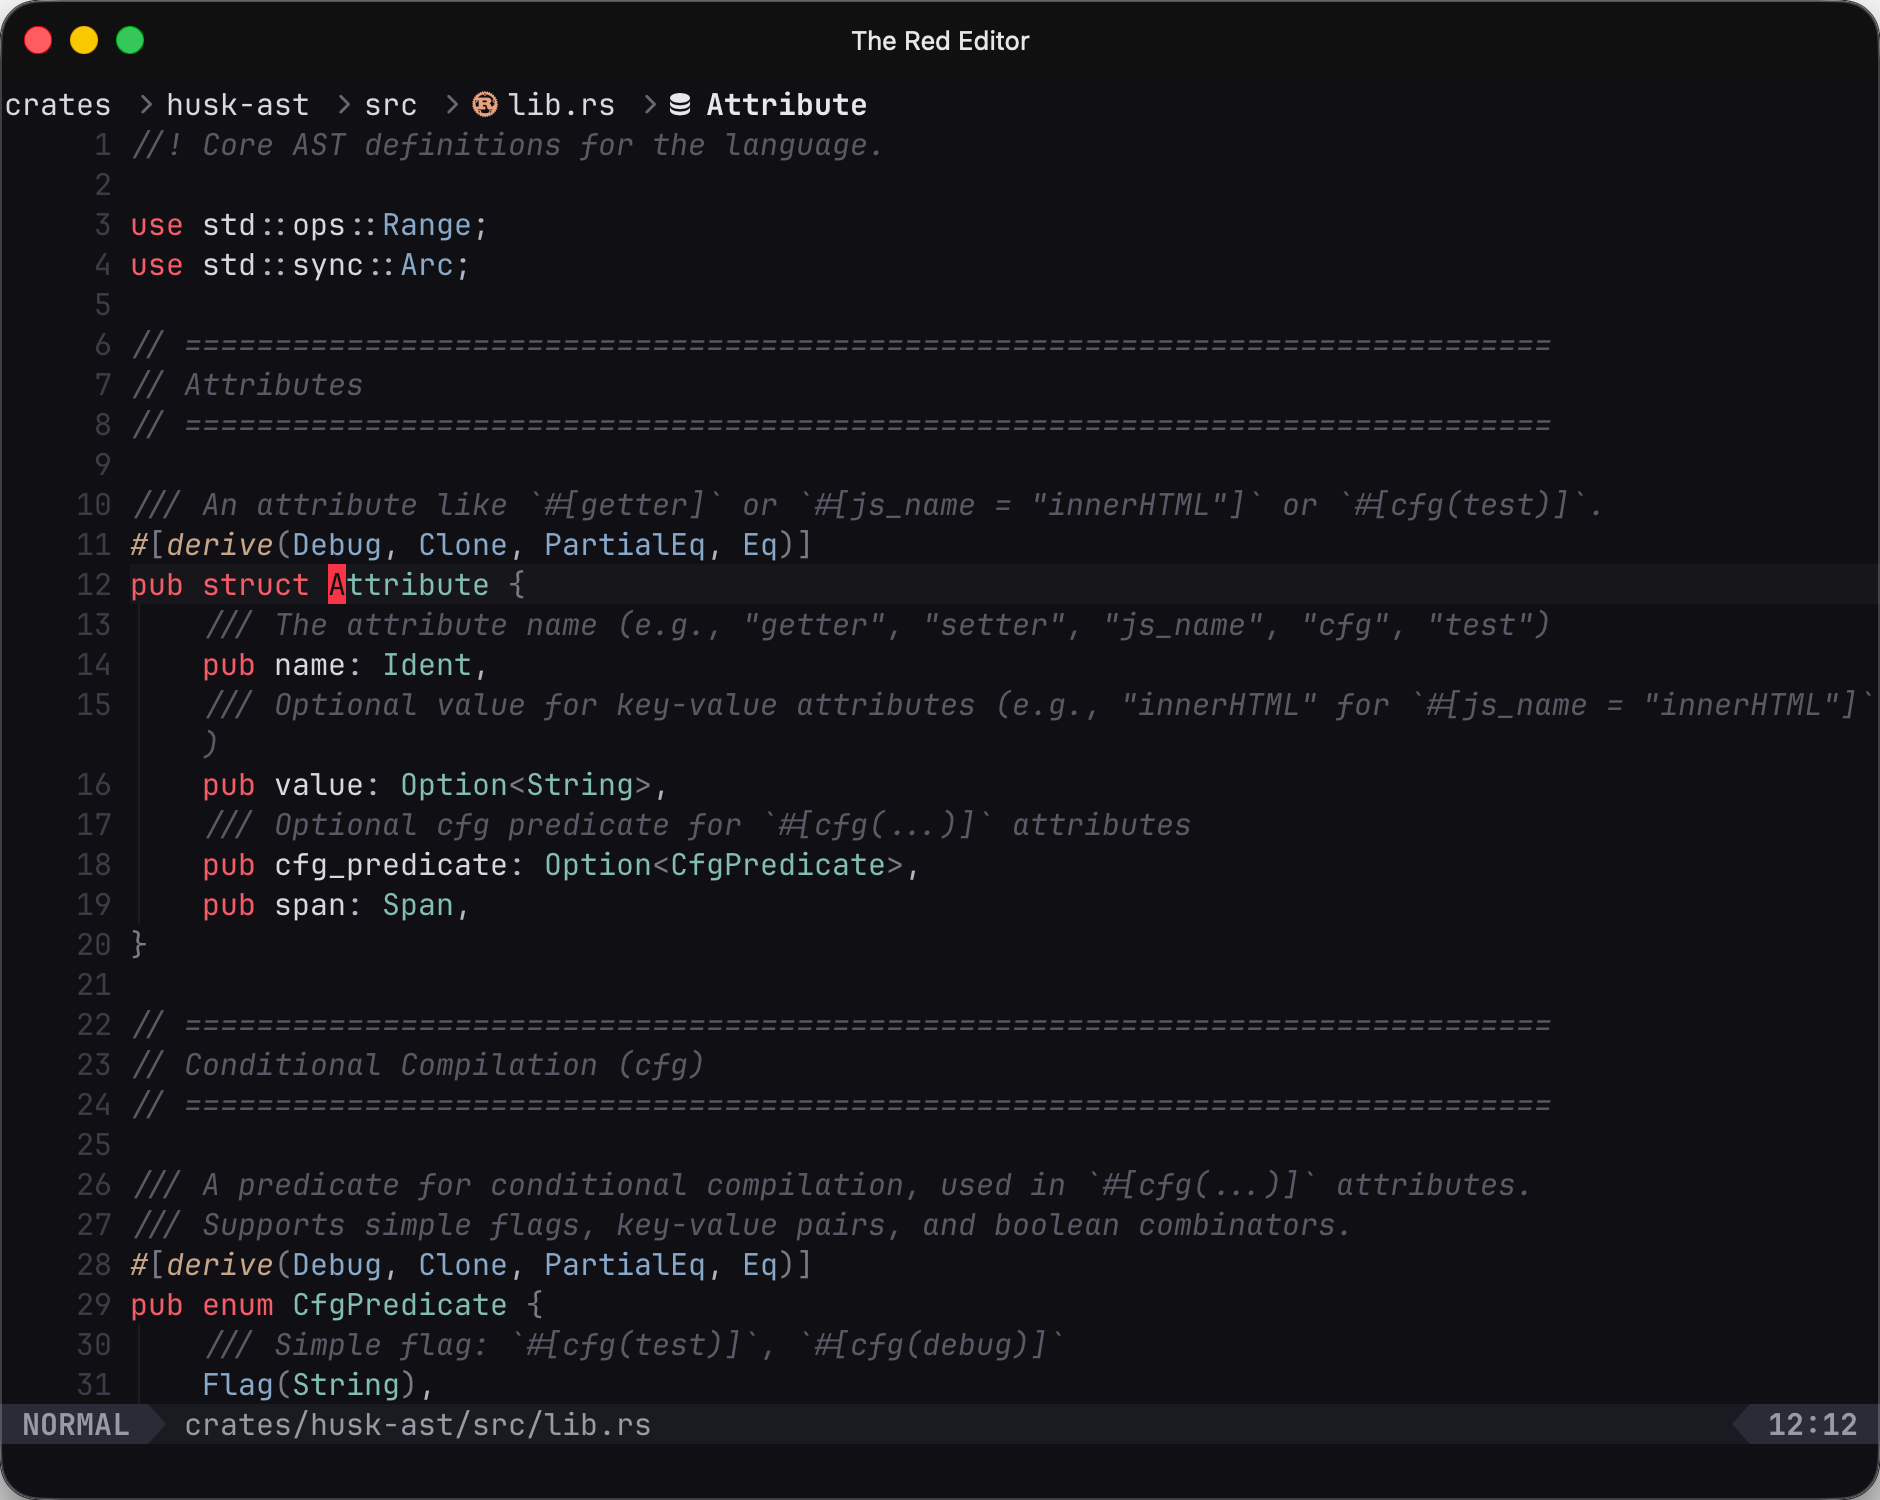
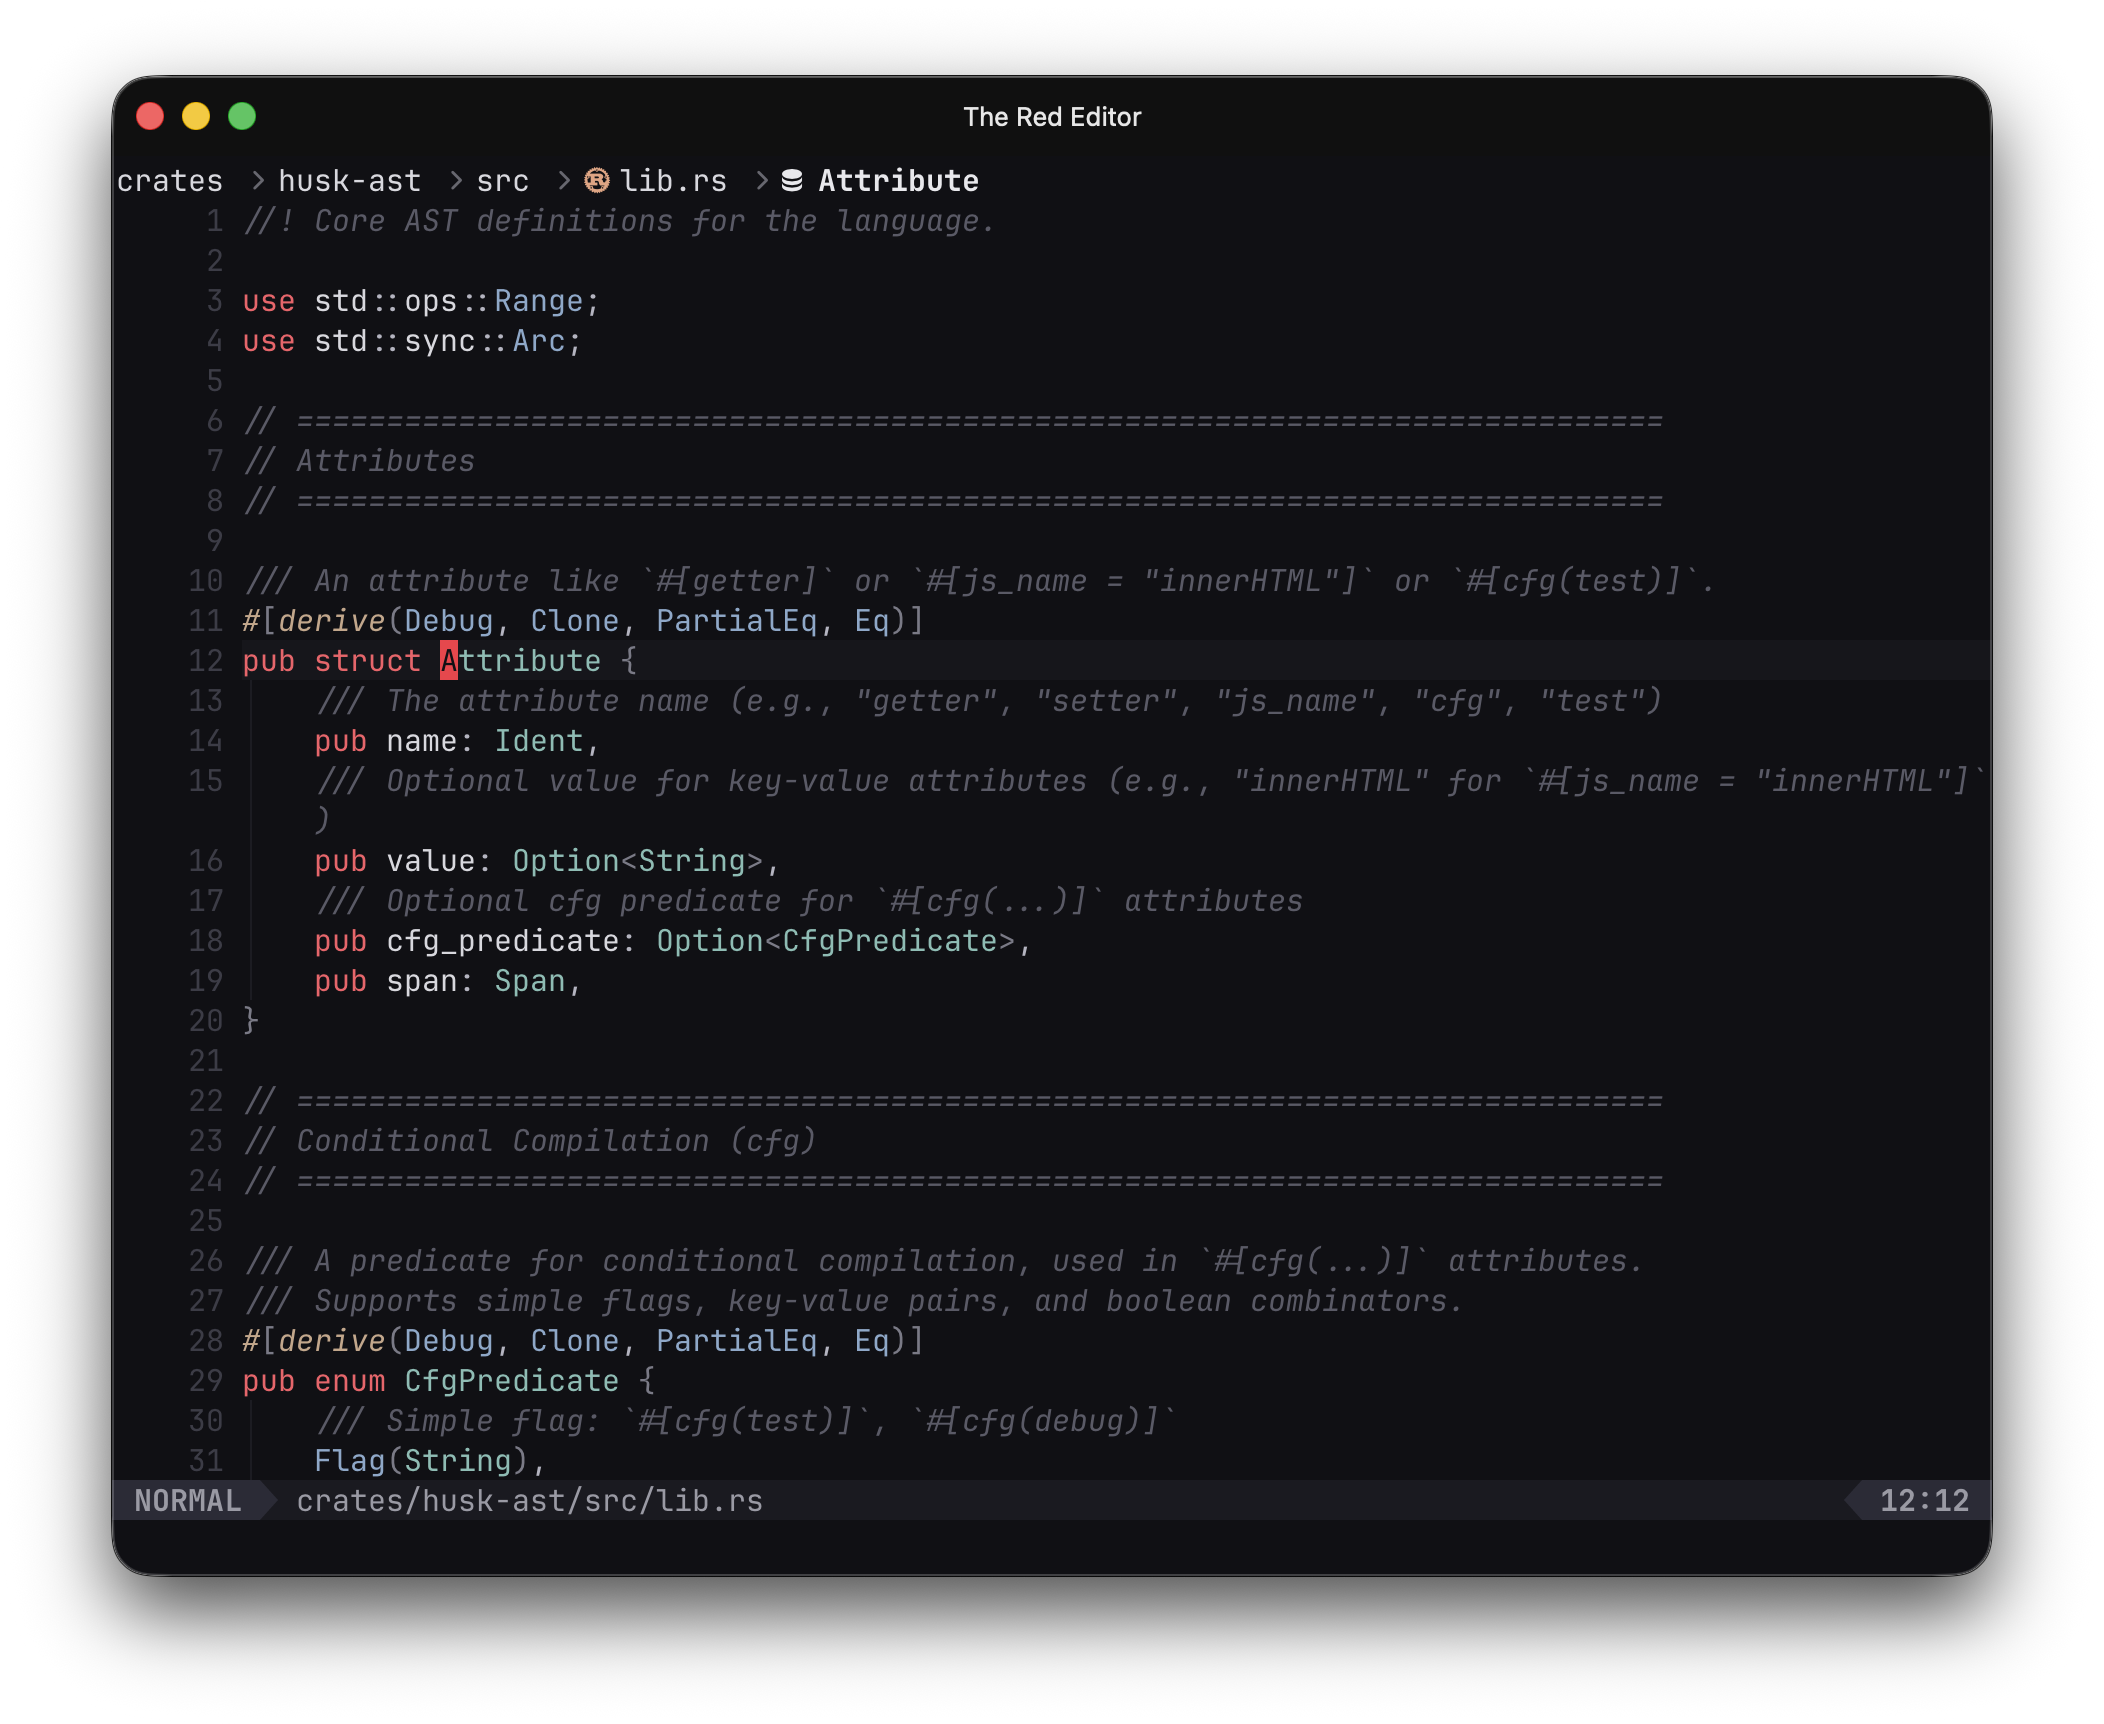
chore(site): publish Red v0.2.3

diff --git a/app/page.tsx b/app/page.tsx
@@ -58,8 +58,8 @@ export default async function Home() {
       </div>
       <div className="hero-install"><InstallPicker origin={origin} /></div>
       <div className="hero-image theme-image">
-        <Image className="theme-image-light" src="/editing-light.png" width={1880} height={1500} alt="Red editing Rust with inline type hints in a light theme" priority unoptimized />
-        <Image className="theme-image-dark" src="/editing-dark.png" width={1880} height={1500} alt="Red editing Rust with inline type hints in a dark theme" priority unoptimized />
+        <Image className="theme-image-light" src="/editing-light.png" width={2104} height={1724} alt="Red editing Rust with inline type hints in a light theme" priority unoptimized />
+        <Image className="theme-image-dark" src="/editing-dark.png" width={2104} height={1724} alt="Red editing Rust with inline type hints in a dark theme" priority unoptimized />
       </div>
     </section>
 
@@ -108,7 +108,7 @@ export default async function Home() {
     <section className="familiar-section">
       <div className="split-section section page-shell">
         <figure className="framed-image">
-          <Image src="/editor-dark.png" width={1880} height={1500} alt="Red welcome screen with command shortcuts" unoptimized />
+          <Image src="/editor-dark.png" width={2104} height={1724} alt="Red welcome screen with command shortcuts" unoptimized />
         </figure>
         <div className="split-copy">
           <p className="section-kicker">Familiar from the first file</p>

diff --git a/app/components/ProductShowcase.tsx b/app/components/ProductShowcase.tsx
@@ -90,7 +90,7 @@ export default function ProductShowcase() {
       aria-labelledby={`showcase-tab-${selected}`}
       tabIndex={0}
     >
-      <Image src={preview.image} width={1880} height={1500} alt={preview.alt} unoptimized />
+      <Image src={preview.image} width={2104} height={1724} alt={preview.alt} unoptimized />
       <figcaption>{preview.caption}</figcaption>
     </figure>
   </div>;

diff --git a/app/installers.generated.ts b/app/installers.generated.ts
@@ -1,3 +1,3 @@
 // Generated by scripts/sync-installers.mjs. Do not edit.
-export const releaseVersion = "v0.2.1";
-export const installerSourceCommit = "4de583aafb6e58b4cbf5796fef81d1156b82792b";
+export const releaseVersion = "v0.2.3";
+export const installerSourceCommit = "eed368f751ac7c3e1cc9ae6f70b51d0b58574a01";

diff --git a/app/components/AgentShowcase.tsx b/app/components/AgentShowcase.tsx
@@ -32,8 +32,8 @@ export default function AgentShowcase() {
     <figure role="tabpanel">
       <Image
         src={views[selected].image}
-        width={1880}
-        height={1500}
+        width={2104}
+        height={1724}
         alt={views[selected].alt}
         unoptimized
       />
